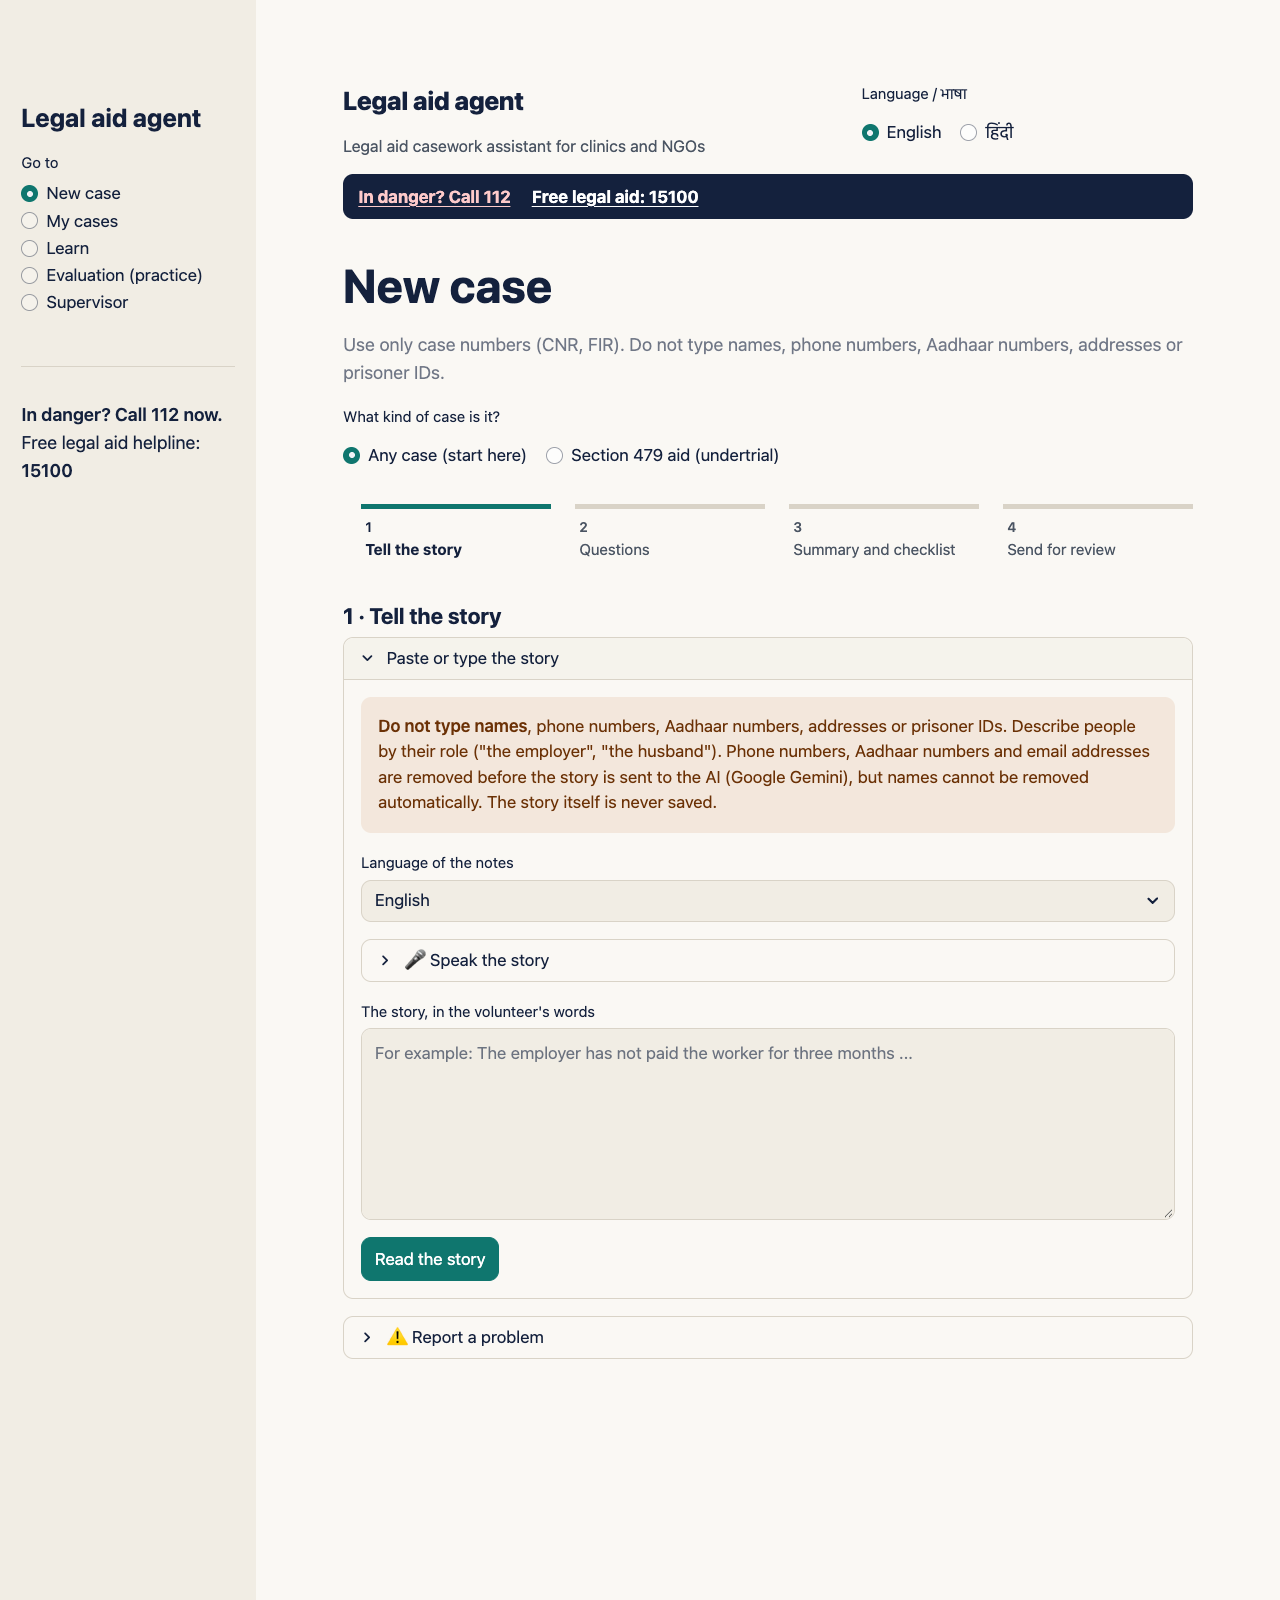
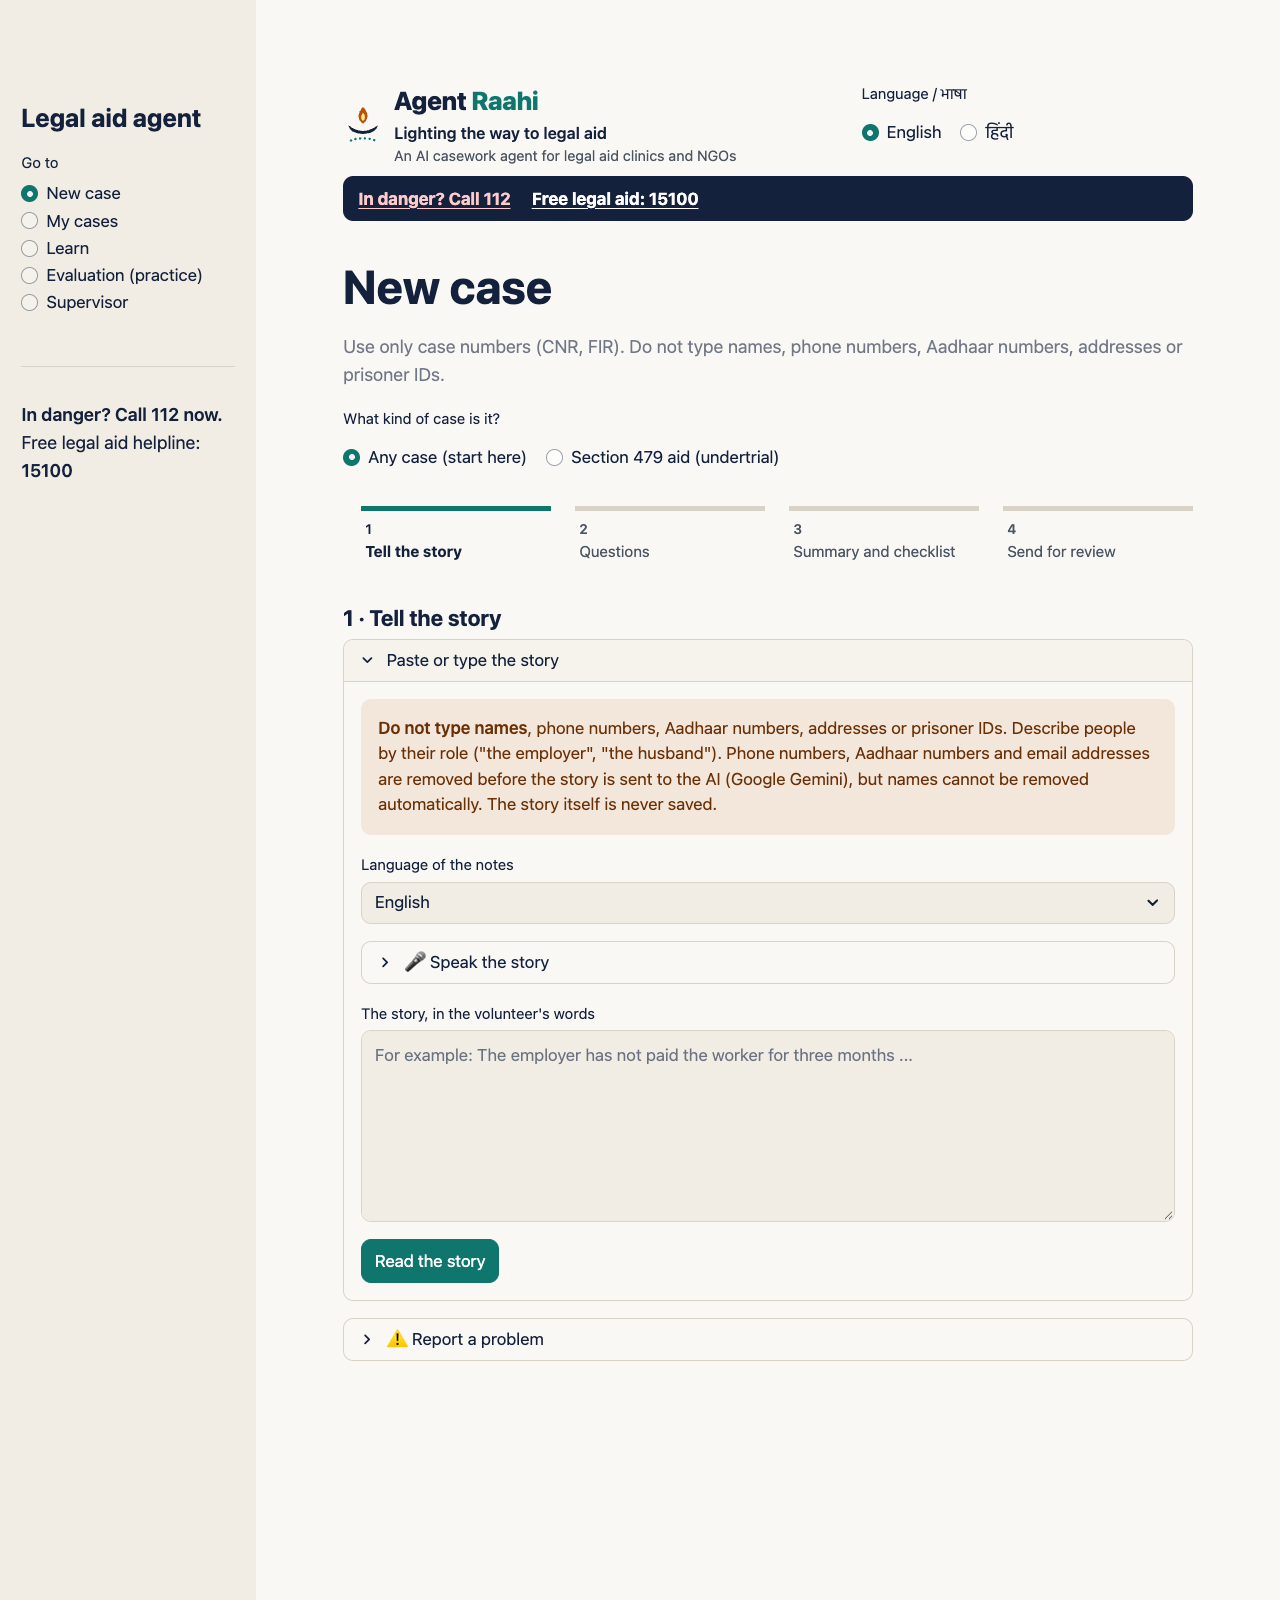
Name the app Agent Raahi (एजेंट राही)
- "Agent Raahi" with the tagline "Lighting the way to legal aid" (Hindi:
  "क़ानूनी मदद तक, रोशन राह", marked Hindi translation checked: no) and "An
  AI casework agent for legal aid clinics and NGOs", in the header, the
  browser tab title, README.md, CLAUDE.md, i18n/en.json and i18n/hi.json
- Text logo: "Raahi" in the accent colour beside a tiny inline SVG lamp
  and path mark (assets/logo-mark.svg, about 0.5 KB, nothing to download)
- Drafts: "Prepared with Agent Raahi." just before the AI disclosure line
  (Hindi: "एजेंट राही की मदद से तैयार।")
- The name check never flags "Agent" or "Raahi" as a person's name
- 7 new tests; English and Hindi screenshots retaken

diff --git a/assets/app.css b/assets/app.css
@@ -5,10 +5,12 @@ html, body, [class*="css"], .stMarkdown p, .stMarkdown li, label, input, textare
 .block-container { padding-top: 3.75rem; max-width: 52rem; }  /* room for Streamlit's top bar */
 
 /* Header and safety bar */
-.app-header { display: flex; align-items: baseline; gap: .75rem; flex-wrap: wrap; margin: 0 0 .25rem 0; }
+.app-header { display: flex; align-items: center; gap: .65rem; margin: 0 0 .25rem 0; }
+.app-logo { flex: 0 0 auto; line-height: 0; }
+.app-description { color: var(--muted); font-size: .85rem; }
 .app-name { font-weight: 800; font-size: 1.5rem; color: var(--ink); letter-spacing: -.01em; }
 .app-name span { color: var(--teal); }
-.app-tagline { color: var(--muted); font-size: .95rem; }
+.app-tagline { color: var(--ink); font-size: .95rem; font-weight: 600; }
 .safety-bar { position: sticky; top: 3.5rem; z-index: 999; display: flex; flex-wrap: wrap; gap: .5rem 1.25rem;
   background: var(--ink); color: #fff; padding: .55rem .9rem; border-radius: .6rem; margin: .25rem 0 1rem 0;
   font-size: 1rem; }

diff --git a/tests/test_branding.py b/tests/test_branding.py
@@ -1,0 +1,68 @@
+"""Agent Raahi: the name, tagline, logo, tab title, draft line, and the name check."""
+
+from pathlib import Path
+
+from streamlit.testing.v1 import AppTest
+
+import drafts
+import general
+import lang
+import ui
+from test_drafts import practice_facts
+
+ROOT = Path(__file__).resolve().parent.parent
+
+
+def test_name_and_tagline_in_both_languages():
+    assert (lang.t("app.name"), lang.t("app.name", "hi")) == ("Agent Raahi", "एजेंट राही")
+    assert lang.t("app.tagline") == "Lighting the way to legal aid"
+    assert lang.t("app.tagline", "hi") == "क़ानूनी मदद तक, रोशन राह"
+    assert lang.t("app.description") == "An AI casework agent for legal aid clinics and NGOs"
+    assert lang.t("meta.hi_checked.app.tagline", "hi") == "no"  # Hindi tagline not yet checked
+
+
+def test_logo_is_a_tiny_inline_svg():
+    svg = (ROOT / "assets" / "logo-mark.svg").read_text(encoding="utf-8")
+    assert svg.startswith("<svg") and len(svg.encode()) < 2048
+    assert "href" not in svg and "<image" not in svg and "@import" not in svg  # nothing to download
+    head = ui.header("Agent Raahi", "Lighting the way to legal aid", "An AI casework agent")
+    assert "<svg" in head and "Agent <span>Raahi</span>" in head
+    assert "एजेंट <span>राही</span>" in ui.header("एजेंट राही", "क़ानूनी मदद तक, रोशन राह")
+
+
+def test_header_on_screen_in_both_languages():
+    at = AppTest.from_file("../app.py", default_timeout=20).run()
+    html = " ".join(m.value for m in at.markdown)
+    assert "Agent <span>Raahi</span>" in html and "Lighting the way to legal aid" in html
+    assert "An AI casework agent for legal aid clinics and NGOs" in html
+    at.radio(key="ui_lang").set_value("hi").run()
+    html = " ".join(m.value for m in at.markdown)
+    assert "एजेंट <span>राही</span>" in html and "क़ानूनी मदद तक, रोशन राह" in html
+
+
+def test_tab_title_uses_the_name():
+    src = (ROOT / "app.py").read_text(encoding="utf-8")
+    assert 'st.set_page_config(page_title=lang.t("app.name"' in src
+
+
+def test_drafts_say_prepared_with_agent_raahi():
+    facts = practice_facts()
+    result = drafts.recalculate(facts)
+    en = drafts.make_undertrial_draft(facts, result, ai_model="gemini-3.5-flash-lite")
+    assert "\n---\n\nPrepared with Agent Raahi.\nHow this draft was prepared:" in en
+    hi = drafts.make_undertrial_draft(facts, result, ai_model="gemini-3.5-flash-lite", code="hi")
+    assert "\n---\n\nएजेंट राही की मदद से तैयार।\nयह ड्राफ़्ट कैसे बना:" in hi
+
+
+def test_name_check_never_flags_agent_raahi():
+    notes = "The worker said Agent Raahi helped before. Raahi was used by Meena at the clinic."
+    summary = "Agent Raahi was used. Meena was not paid."
+    flagged = general.possible_names(summary, notes)
+    assert "Raahi" not in flagged and "Agent" not in flagged
+    assert flagged == ["Meena"]  # a real name is still flagged
+
+
+def test_name_in_readme_and_claude_md():
+    for name in ("README.md", "CLAUDE.md"):
+        text = (ROOT / name).read_text(encoding="utf-8")
+        assert "Agent Raahi" in text and "Lighting the way to legal aid" in text

diff --git a/ui.py b/ui.py
@@ -16,9 +16,27 @@ def style() -> str:
     return f"<style>{CSS_FILE.read_text(encoding='utf-8')}</style>"
 
 
-def header(name: str, tagline: str) -> str:
-    return (f'<header class="app-header" role="banner"><div class="app-name">{html.escape(name)}</div>'
-            f'<div class="app-tagline">{html.escape(tagline)}</div></header>')
+LOGO_FILE = HERE / "assets" / "logo-mark.svg"
+
+
+def logo_mark(size: int = 40) -> str:
+    """The lamp-and-path mark: a tiny inline SVG (about 0.5 KB), no image download."""
+    svg = LOGO_FILE.read_text(encoding="utf-8").strip()
+    return svg.replace('width="40" height="40"', f'width="{size}" height="{size}"', 1)
+
+
+def wordmark(name: str) -> str:
+    """'Agent Raahi' with the last word in the accent colour (also 'एजेंट राही')."""
+    first, _, last = name.rpartition(" ")
+    return f"{html.escape(first)} <span>{html.escape(last)}</span>" if first else f"<span>{html.escape(name)}</span>"
+
+
+def header(name: str, tagline: str, description: str = "") -> str:
+    return (f'<header class="app-header" role="banner"><div class="app-logo">{logo_mark()}</div>'
+            f'<div><div class="app-name">{wordmark(name)}</div>'
+            f'<div class="app-tagline">{html.escape(tagline)}</div>'
+            + (f'<div class="app-description">{html.escape(description)}</div>' if description else "")
+            + '</div></header>')
 
 
 def safety_bar(danger: str, legal_aid: str) -> str:

diff --git a/app.py b/app.py
@@ -33,7 +33,8 @@ import store
 import timeline
 import ui
 
-st.set_page_config(page_title="Legal aid agent", page_icon="⚖", layout="centered")
+st.set_page_config(page_title=lang.t("app.name", st.session_state.get("ui_lang", lang.DEFAULT)),
+                   page_icon="\U0001FA94", layout="centered")  # 🪔 lamp
 
 # Look and feel: .streamlit/config.toml (colours, fonts) plus a small stylesheet (assets/app.css).
 st.markdown(ui.style(), unsafe_allow_html=True)
@@ -1621,7 +1622,7 @@ st.sidebar.markdown("---")
 st.sidebar.markdown(f"**{t('ui.sidebar.danger')}**  \n{t('ui.sidebar.helpline')}")
 head_left, head_right = st.columns([3, 2])
 with head_left:
-    st.markdown(ui.header(t("app.name"), t("app.tagline")), unsafe_allow_html=True)
+    st.markdown(ui.header(t("app.name"), t("app.tagline"), t("app.description")), unsafe_allow_html=True)
 with head_right:
     language_switch()
 st.markdown(ui.safety_bar(t("safety.bar112"), t("safety.bar15100")), unsafe_allow_html=True)

diff --git a/drafts.py b/drafts.py
@@ -250,7 +250,8 @@ def disclosure_block(ai_model: Optional[str], approved_on: Optional[date] = None
 
 def add_disclosure(text: str, ai_model: Optional[str], approved_on: Optional[date] = None,
                    rules: str = RULES_DATES, code: str = "en") -> str:
-    return text.rstrip("\n") + "\n\n---\n\n" + disclosure_block(ai_model, approved_on, rules, code) + "\n"
+    return (text.rstrip("\n") + "\n\n---\n\n" + lang.t("disclosure.prepared_with", code) + "\n"
+            + disclosure_block(ai_model, approved_on, rules, code) + "\n")
 
 
 def fill_approval_date(text: str, approved_on: date, ai_model: Optional[str], rules: str = RULES_DATES,

diff --git a/general.py b/general.py
@@ -447,6 +447,7 @@ _NOT_NAMES = {
     "january", "february", "march", "april", "may", "june", "july", "august", "september", "october",
     "november", "december", "monday", "tuesday", "wednesday", "thursday", "friday", "saturday", "sunday",
     "mr", "mrs", "ms", "dr", "shri", "smt",
+    "agent", "raahi",  # the app's own name, "Agent Raahi"
 }
 
 

diff --git a/docs/HINDI_STATUS.md b/docs/HINDI_STATUS.md
@@ -33,7 +33,9 @@ When an entry or template is checked, change "Hindi translation checked: no" to 
    starting `s479.` (Section 479 reasons), `draft.` and `sec.` (draft phrases), `disclosure.`
    (AI disclosure), `elig.` and `group.` (free legal aid), `next:` (next steps), `doc:` (documents)
    and `intake.q.` (intake questions)
-7. `case_notes_hi.txt` and `practice_stories/upi_fraud_hinglish.txt` — fake practice stories (only
+7. The name and tagline in `i18n/hi.json`: "एजेंट राही" and "क़ानूनी मदद तक, रोशन राह"
+   (key `meta.hi_checked.app.tagline` is "no" until checked; change it to "yes")
+8. `case_notes_hi.txt` and `practice_stories/upi_fraud_hinglish.txt` — fake practice stories (only
    check that they read naturally)
 
 ## Known limits

diff --git a/README.md b/README.md
@@ -1,4 +1,13 @@
-# Legal aid agent: content files
+<img src="assets/logo-mark.svg" width="48" height="48" alt="">
+
+# Agent Raahi
+
+**Lighting the way to legal aid** · *क़ानूनी मदद तक, रोशन राह*
+
+An AI casework agent for legal aid clinics and NGOs (Code for a Billion, Timely Justice track).
+Every draft is checked and approved by a supervising lawyer before it is used.
+
+## Content files
 
 Version 1 content for the legal aid agent (Code for a Billion, Timely Justice track). Researched on 2 November 2026. Nothing here has been checked by a lawyer yet: every entry says "Lawyer checked: no" until it is.
 

diff --git a/CLAUDE.md b/CLAUDE.md
@@ -1,4 +1,8 @@
-# Legal aid agent — project brief for Claude Code
+# Agent Raahi (legal aid agent) — project brief for Claude Code
+
+Name: Agent Raahi (Hindi: एजेंट राही). Tagline: "Lighting the way to legal aid" (Hindi: "क़ानूनी मदद तक,
+रोशन राह", Hindi translation checked: no). Description: "An AI casework agent for legal aid clinics and NGOs".
+The name, tagline and logo (assets/logo-mark.svg) come from i18n/en.json, i18n/hi.json and ui.py.
 
 ## Who you are working with
 Arushi is building this for the Code for a Billion hackathon (Code for India; submissions close
